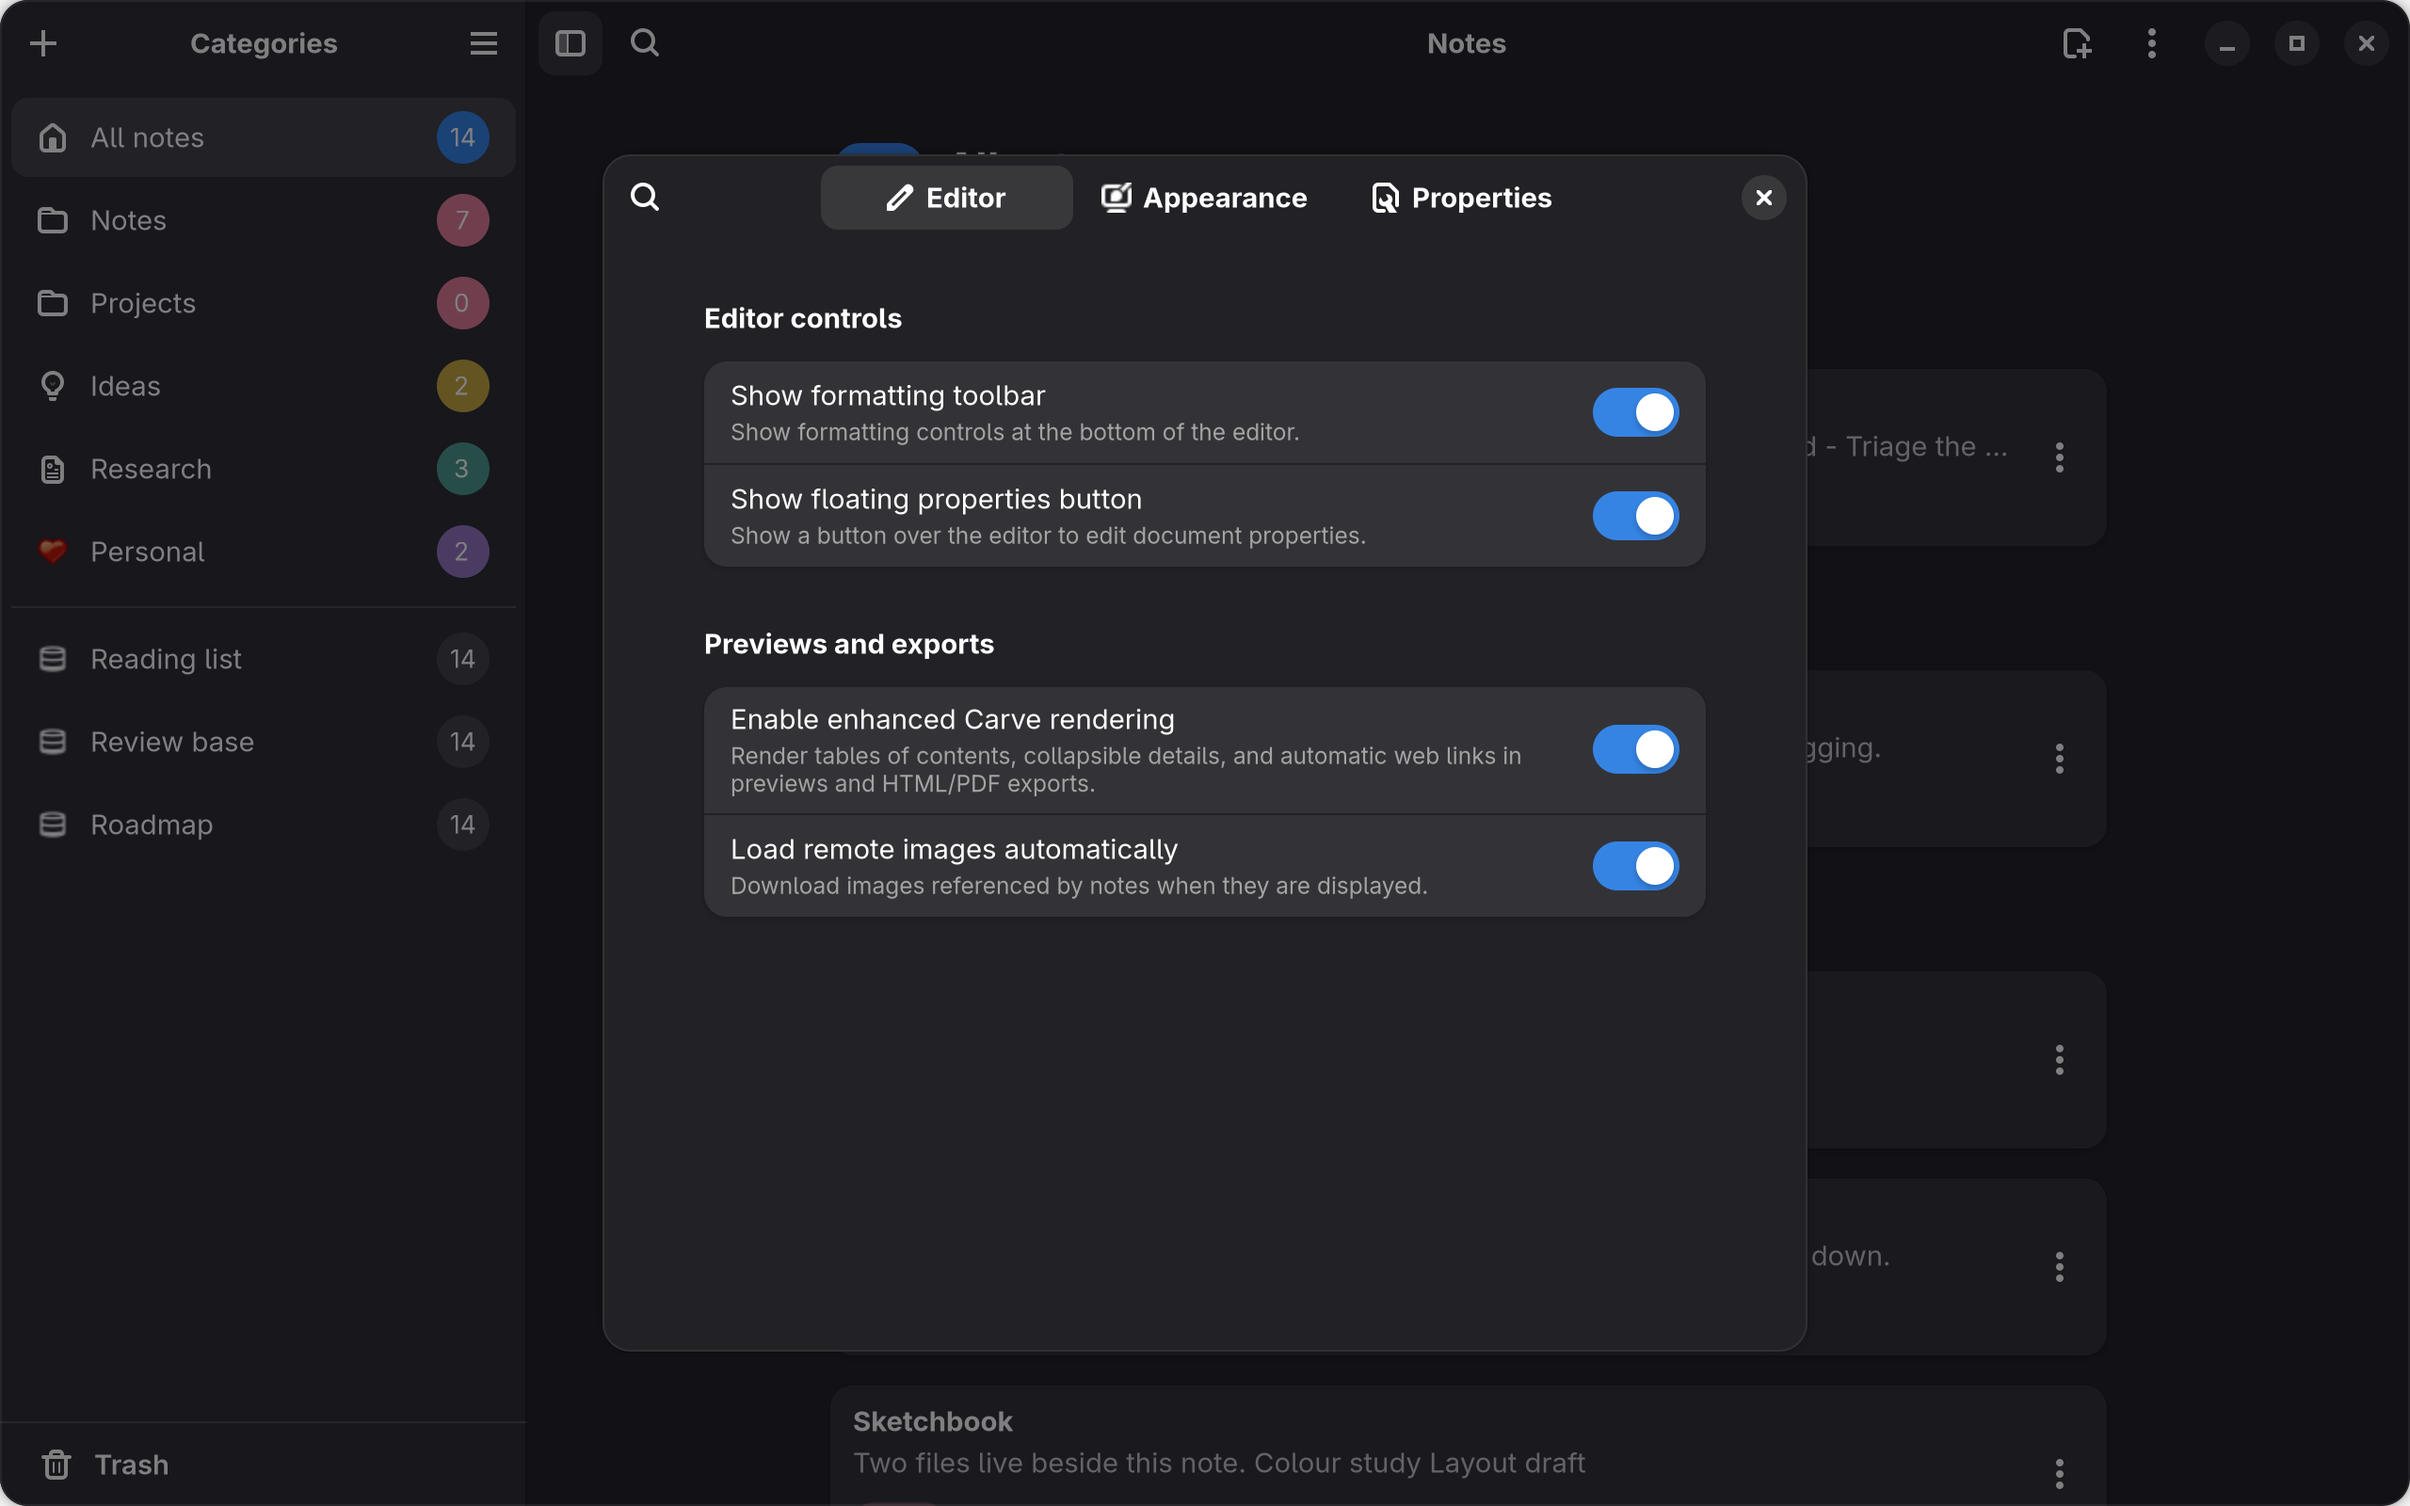
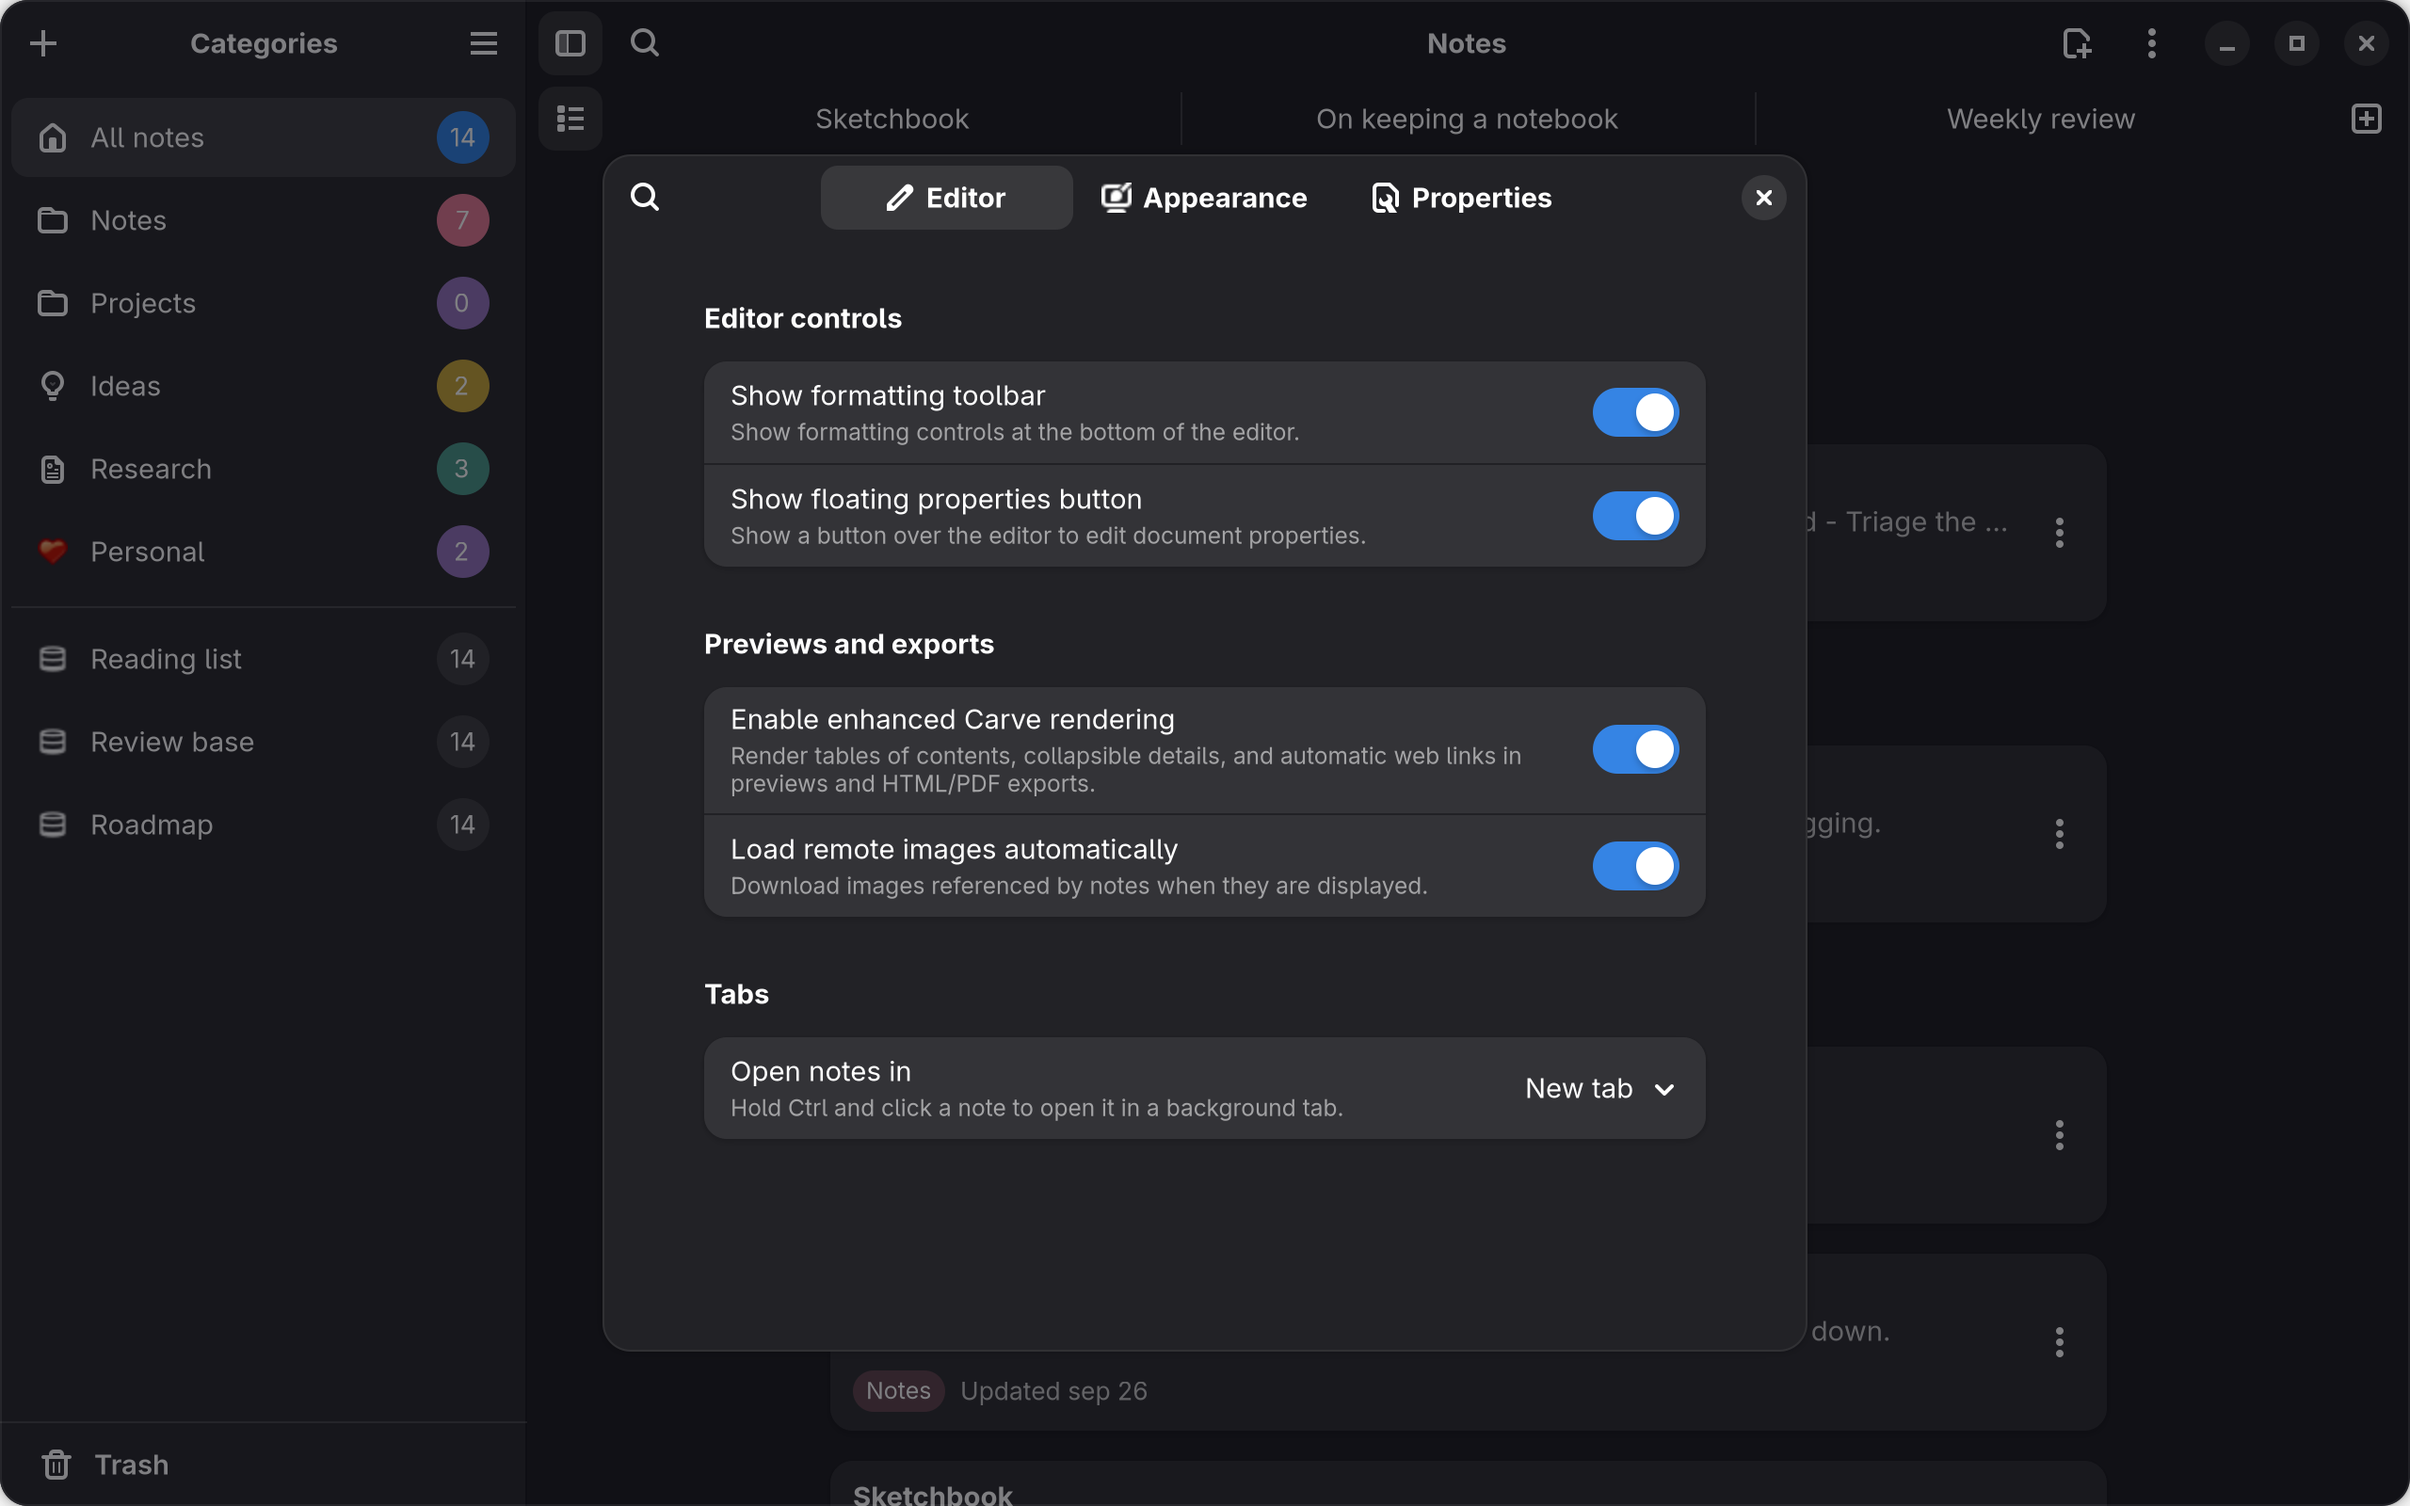
docs: refresh screenshots with workspace tabs
Regenerate the docs screenshots now that notes open in workspace tabs,
and open the media, focus, and review notes first so the note scenes show
the tab strip.

The document sidebar is a view switcher now, so open it on Media for the
media capture instead of the restored default page.

diff --git a/apps/carver-gtk/src/tests/ui/screenshots.rs b/apps/carver-gtk/src/tests/ui/screenshots.rs
@@ -273,8 +273,12 @@ pub(super) fn capture_docs_screenshots() -> TestResult {
         // Screenshots should show the application's default document font, not
         // the deterministic font the interaction suite configures. Pinning the
         // desktop default keeps the capture identical whatever the machine's
-        // font settings are.
-        |config| config.editor.document_font = Some("Adwaita Sans 12".to_owned()),
+        // font settings are. The document sidebar is a view switcher now, so
+        // open it on Media for the media capture.
+        |config| {
+            config.editor.document_font = Some("Adwaita Sans 12".to_owned());
+            config.editor.document_sidebar_page = carver_config::DocumentSidebarPage::Media;
+        },
     )?;
     let showcase = showcase.into_inner().ok_or("showcase")?;
     capture_scenes(&fixture, &directory, &showcase)
@@ -477,8 +481,11 @@ fn capture_scenes(fixture: &WindowFixture, directory: &Path, showcase: &Showcase
     search_toggle.set_active(false);
     let _ = run_main_context_until_for(Duration::from_millis(200), || false);
 
-    // Rich editor: open the review note and wait for the web surface.
-    assert!(activate_browser_note(&note_list, showcase.review));
+    // Open several notes so the note captures show the workspace tab strip, and
+    // leave the review note in front for the rich editor and source scenes.
+    open_showcase_tabs(fixture, showcase)?;
+
+    // Rich editor: the review note with its web surface.
     assert!(run_main_context_until(|| note_tab_is_active(&root)));
     let editor_stack = fixture.editor_mode_stack()?;
     editor_stack.set_visible_child_name("rich");
@@ -617,6 +624,19 @@ fn capture_dialogs(fixture: &WindowFixture, directory: &Path) -> TestResult {
     settle();
     capture_theme_pair(fixture, directory, "settings")?;
     preferences.close();
+    Ok(())
+}
+
+/// Opens the media, focus, and review notes as workspace tabs.
+///
+/// The default "open in a new tab" behavior keeps each note open, so the note
+/// captures show the tab strip instead of a single document. The review note is
+/// opened last so it starts in front with a fresh preview for the editor and
+/// source scenes.
+fn open_showcase_tabs(fixture: &WindowFixture, showcase: &Showcase) -> TestResult {
+    for note in [showcase.media, showcase.focus, showcase.review] {
+        assert!(open_note(fixture, note)?);
+    }
     Ok(())
 }
 
